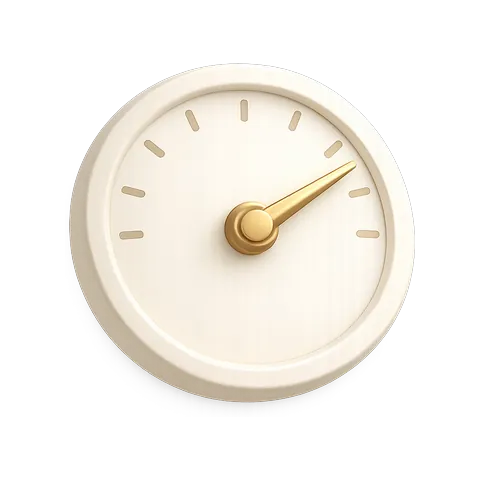
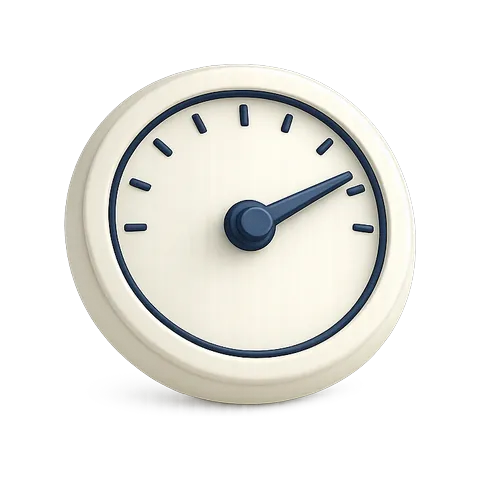
Swap in the navy services artwork and carry it to the services page
Replaces the six rendered objects with the navy-accented set and puts the same
artwork on services.html, which until now had the cards without it.

The .webp filenames did not change but their contents did, so every reference
moves to ?v=2. Without that, GitHub Pages keeps serving the gold versions from
cache and the swap never appears.

services.html needed its own proportions. It runs the same six cards with two
to three times the copy, so at the homepage's 61/53 split the text closed to
13px of the object against 29px on the home page. A smaller object pushed
further into the corner restores it to 44px, which is better than narrowing the
measure: these cards are already 392px tall and a narrower column would only
make them taller.

The superseded gold renders move to img/services/source/archive/ rather than
being deleted.

diff --git a/services.html b/services.html
@@ -28,7 +28,7 @@
 <link rel="preconnect" href="https://fonts.googleapis.com">
 <link rel="preconnect" href="https://fonts.gstatic.com" crossorigin>
 <link href="https://fonts.googleapis.com/css2?family=Playfair+Display:ital,wght@0,500;0,600;0,700;1,500;1,600&family=Plus+Jakarta+Sans:wght@400;500;600;700&family=Caveat:wght@600&family=IBM+Plex+Mono:wght@500;600&display=swap" rel="stylesheet">
-<link rel="stylesheet" href="studio.css?v=74"/>
+<link rel="stylesheet" href="studio.css?v=75"/>
 <script async src="https://www.googletagmanager.com/gtag/js?id=G-X2Q4TFJQM4"></script>
 <script>
   window.dataLayer=window.dataLayer||[];
@@ -120,36 +120,54 @@
         <h2>Six things, done properly.</h2>
         <p>Not a menu of add-ons. These are the pieces that make a small organization's site work.</p>
       </div>
-      <div class="svc-grid six detail">
+      <div class="svc-grid six detail illus">
         <a class="svc" href="websites.html">
-          <div class="ic"><svg viewBox="0 0 24 24" fill="none" stroke="currentColor" stroke-width="1.7" stroke-linecap="round" stroke-linejoin="round"><path d="M12 19l7-7 3 3-7 7-3-3z"/><path d="M18 13l-1.5-7.5L2 2l3.5 14.5L13 18l5-5z"/><path d="M2 2l7.586 7.586"/><circle cx="11" cy="11" r="2"/></svg></div>
+          <div class="svc-copy">
+            <div class="ic"><svg viewBox="0 0 24 24" fill="none" stroke="currentColor" stroke-width="1.7" stroke-linecap="round" stroke-linejoin="round"><path d="M12 19l7-7 3 3-7 7-3-3z"/><path d="M18 13l-1.5-7.5L2 2l3.5 14.5L13 18l5-5z"/><path d="M2 2l7.586 7.586"/><circle cx="11" cy="11" r="2"/></svg></div>
           <h3>Custom design</h3>
           <p>Every site starts with your work, not a template. I design around who you serve and what they need to find, so the layout, wording, and imagery all point the same direction.</p>
+          </div>
+          <img class="svc-art" src="img/services/custom-design.webp?v=2" alt="" width="480" height="480" loading="lazy" decoding="async"/>
         </a>
         <a class="svc" href="websites.html">
-          <div class="ic"><svg viewBox="0 0 24 24" fill="none" stroke="currentColor" stroke-width="1.7" stroke-linecap="round" stroke-linejoin="round"><path d="M12 3l1.9 5.6L19.5 10l-5.6 1.9L12 17.5l-1.9-5.6L4.5 10l5.6-1.4L12 3z"/><path d="M19 15l.8 2.2L22 18l-2.2.8L19 21l-.8-2.2L16 18l2.2-.8L19 15z"/></svg></div>
+          <div class="svc-copy">
+            <div class="ic"><svg viewBox="0 0 24 24" fill="none" stroke="currentColor" stroke-width="1.7" stroke-linecap="round" stroke-linejoin="round"><path d="M12 3l1.9 5.6L19.5 10l-5.6 1.9L12 17.5l-1.9-5.6L4.5 10l5.6-1.4L12 3z"/><path d="M19 15l.8 2.2L22 18l-2.2.8L19 21l-.8-2.2L16 18l2.2-.8L19 15z"/></svg></div>
           <h3>Redesigns &amp; refreshes</h3>
           <p>An aged site rarely needs starting from nothing. I rebuild what's there so it looks current and works properly on phones, keeping the pages and search history that already work.</p>
+          </div>
+          <img class="svc-art" src="img/services/redesign.webp?v=2" alt="" width="480" height="480" loading="lazy" decoding="async"/>
         </a>
         <a class="svc" href="websites.html">
-          <div class="ic"><svg viewBox="0 0 24 24" fill="none" stroke="currentColor" stroke-width="1.7" stroke-linecap="round" stroke-linejoin="round"><path d="M8 6l-5 6 5 6"/><path d="M16 6l5 6-5 6"/></svg></div>
+          <div class="svc-copy">
+            <div class="ic"><svg viewBox="0 0 24 24" fill="none" stroke="currentColor" stroke-width="1.7" stroke-linecap="round" stroke-linejoin="round"><path d="M8 6l-5 6 5 6"/><path d="M16 6l5 6-5 6"/></svg></div>
           <h3>Fast, modern build</h3>
           <p>Hand-built rather than assembled from heavy page builders, so pages stay fast and easy to maintain. Every page is checked on real phones, not just resized in a browser.</p>
+          </div>
+          <img class="svc-art" src="img/services/fast-build.webp?v=2" alt="" width="480" height="480" loading="lazy" decoding="async"/>
         </a>
         <a class="svc" href="hosting.html">
-          <div class="ic"><svg viewBox="0 0 24 24" fill="none" stroke="currentColor" stroke-width="1.7" stroke-linecap="round" stroke-linejoin="round"><rect x="3" y="4" width="18" height="7" rx="1.6"/><rect x="3" y="13" width="18" height="7" rx="1.6"/><path d="M7 7.5h.01M7 16.5h.01"/></svg></div>
+          <div class="svc-copy">
+            <div class="ic"><svg viewBox="0 0 24 24" fill="none" stroke="currentColor" stroke-width="1.7" stroke-linecap="round" stroke-linejoin="round"><rect x="3" y="4" width="18" height="7" rx="1.6"/><rect x="3" y="13" width="18" height="7" rx="1.6"/><path d="M7 7.5h.01M7 16.5h.01"/></svg></div>
           <h3>Hosting &amp; maintenance</h3>
           <p>I host the sites I build, so there's no finger-pointing when something needs attention. That covers the server, the certificate, backups, and monitoring. You never log into a control panel.</p>
+          </div>
+          <img class="svc-art" src="img/services/hosting.webp?v=2" alt="" width="480" height="480" loading="lazy" decoding="async"/>
         </a>
         <a class="svc" href="websites.html">
-          <div class="ic"><svg viewBox="0 0 24 24" fill="none" stroke="currentColor" stroke-width="1.7" stroke-linecap="round" stroke-linejoin="round"><circle cx="11" cy="11" r="7"/><path d="M20 20l-4.3-4.3"/></svg></div>
+          <div class="svc-copy">
+            <div class="ic"><svg viewBox="0 0 24 24" fill="none" stroke="currentColor" stroke-width="1.7" stroke-linecap="round" stroke-linejoin="round"><circle cx="11" cy="11" r="7"/><path d="M20 20l-4.3-4.3"/></svg></div>
           <h3>Get found locally</h3>
           <p>The local search basics, done properly at launch: clear titles and descriptions, structured data so search engines and AI assistants understand who you are, a sitemap, and fast load times.</p>
+          </div>
+          <img class="svc-art" src="img/services/local.webp?v=2" alt="" width="480" height="480" loading="lazy" decoding="async"/>
         </a>
         <a class="svc" href="plans.html">
-          <div class="ic"><svg viewBox="0 0 24 24" fill="none" stroke="currentColor" stroke-width="1.7" stroke-linecap="round" stroke-linejoin="round"><path d="M21 12a9 9 0 1 1-2.6-6.4"/><path d="M21 4v5h-5"/></svg></div>
+          <div class="svc-copy">
+            <div class="ic"><svg viewBox="0 0 24 24" fill="none" stroke="currentColor" stroke-width="1.7" stroke-linecap="round" stroke-linejoin="round"><path d="M21 12a9 9 0 1 1-2.6-6.4"/><path d="M21 4v5h-5"/></svg></div>
           <h3>Ongoing updates</h3>
           <p>New photos, seasonal hours, an event, a staff change, a whole new page. Email or text me the change and I handle it, usually within a few business days.</p>
+          </div>
+          <img class="svc-art" src="img/services/updates.webp?v=2" alt="" width="480" height="480" loading="lazy" decoding="async"/>
         </a>
       </div>
     </div>

diff --git a/index.html b/index.html
@@ -28,7 +28,7 @@
 <link rel="preconnect" href="https://fonts.googleapis.com">
 <link rel="preconnect" href="https://fonts.gstatic.com" crossorigin>
 <link href="https://fonts.googleapis.com/css2?family=Playfair+Display:ital,wght@0,500;0,600;0,700;1,500;1,600&family=Plus+Jakarta+Sans:wght@400;500;600;700&family=Caveat:wght@600&family=IBM+Plex+Mono:wght@500;600&display=swap" rel="stylesheet">
-<link rel="stylesheet" href="studio.css?v=74"/>
+<link rel="stylesheet" href="studio.css?v=75"/>
 <script type="application/ld+json">
 {
   "@context": "https://schema.org",
@@ -172,7 +172,7 @@
             <h3>Custom design</h3>
             <p>A clean, modern site designed around your business and the people you want to reach.</p>
           </div>
-          <img class="svc-art" src="img/services/custom-design.webp?v=1" alt="" width="480" height="480" loading="lazy" decoding="async"/>
+          <img class="svc-art" src="img/services/custom-design.webp?v=2" alt="" width="480" height="480" loading="lazy" decoding="async"/>
         </a>
         <a class="svc" href="websites.html">
           <div class="svc-copy">
@@ -180,7 +180,7 @@
             <h3>Redesigns &amp; refreshes</h3>
             <p>An outdated site rebuilt so it looks current and works properly on phones.</p>
           </div>
-          <img class="svc-art" src="img/services/redesign.webp?v=1" alt="" width="480" height="480" loading="lazy" decoding="async"/>
+          <img class="svc-art" src="img/services/redesign.webp?v=2" alt="" width="480" height="480" loading="lazy" decoding="async"/>
         </a>
         <a class="svc" href="websites.html">
           <div class="svc-copy">
@@ -188,7 +188,7 @@
             <h3>Fast, modern build</h3>
             <p>Built to load quickly and behave properly on the phones most visitors use.</p>
           </div>
-          <img class="svc-art" src="img/services/fast-build.webp?v=1" alt="" width="480" height="480" loading="lazy" decoding="async"/>
+          <img class="svc-art" src="img/services/fast-build.webp?v=2" alt="" width="480" height="480" loading="lazy" decoding="async"/>
         </a>
         <a class="svc" href="hosting.html">
           <div class="svc-copy">
@@ -196,7 +196,7 @@
             <h3>Hosting &amp; maintenance</h3>
             <p>Hosting, domains, certificates, and backups handled so you never touch a server.</p>
           </div>
-          <img class="svc-art" src="img/services/hosting.webp?v=1" alt="" width="480" height="480" loading="lazy" decoding="async"/>
+          <img class="svc-art" src="img/services/hosting.webp?v=2" alt="" width="480" height="480" loading="lazy" decoding="async"/>
         </a>
         <a class="svc" href="websites.html">
           <div class="svc-copy">
@@ -204,7 +204,7 @@
             <h3>Get found locally</h3>
             <p>Set up so Google and AI assistants can find you from day one.</p>
           </div>
-          <img class="svc-art" src="img/services/local.webp?v=1" alt="" width="480" height="480" loading="lazy" decoding="async"/>
+          <img class="svc-art" src="img/services/local.webp?v=2" alt="" width="480" height="480" loading="lazy" decoding="async"/>
         </a>
         <a class="svc" href="plans.html">
           <div class="svc-copy">
@@ -212,7 +212,7 @@
             <h3>Ongoing updates</h3>
             <p>New photos, hours, events, or pages whenever you need them.</p>
           </div>
-          <img class="svc-art" src="img/services/updates.webp?v=1" alt="" width="480" height="480" loading="lazy" decoding="async"/>
+          <img class="svc-art" src="img/services/updates.webp?v=2" alt="" width="480" height="480" loading="lazy" decoding="async"/>
         </a>
       </div>
 

diff --git a/studio.css b/studio.css
@@ -875,3 +875,20 @@ p,li,dd,figcaption,.crumb{text-wrap:pretty}
   .illus .svc-art{transition:none}
   .illus .svc:hover .svc-art{transform:none}
 }
+
+/* --------------------------------------------------------------------------
+   SERVICES PAGE ARTWORK (2026-08-08). services.html runs the same six cards
+   with two to three times the copy, so the homepage proportions do not carry:
+   at 61%/53% the text closed to 13px of the object, against 29px on the home
+   page. A smaller object pushed further into the corner restores the gap
+   without narrowing the measure, which would only make these cards taller.
+   -------------------------------------------------------------------------- */
+.detail.illus .svc-art{width:47%;right:-12%;bottom:-7%}
+@media(max-width:900px){
+  .detail.illus .svc-art{width:45%;right:-10%}
+}
+@media(max-width:620px){
+  /* one per row: the card narrows again and the copy is still long */
+  .detail.illus .svc-copy{width:58%}
+  .detail.illus .svc-art{width:44%;right:-8%;bottom:-5%}
+}

diff --git a/404.html b/404.html
@@ -28,7 +28,7 @@
 <link rel="preconnect" href="https://fonts.googleapis.com">
 <link rel="preconnect" href="https://fonts.gstatic.com" crossorigin>
 <link href="https://fonts.googleapis.com/css2?family=Playfair+Display:ital,wght@0,500;0,600;0,700;1,500;1,600&family=Plus+Jakarta+Sans:wght@400;500;600;700&family=Caveat:wght@600&family=IBM+Plex+Mono:wght@500;600&display=swap" rel="stylesheet">
-<link rel="stylesheet" href="/studio.css?v=74"/>
+<link rel="stylesheet" href="/studio.css?v=75"/>
 <script async src="https://www.googletagmanager.com/gtag/js?id=G-X2Q4TFJQM4"></script>
 <script>
   window.dataLayer=window.dataLayer||[];

diff --git a/about.html b/about.html
@@ -28,7 +28,7 @@
 <link rel="preconnect" href="https://fonts.googleapis.com">
 <link rel="preconnect" href="https://fonts.gstatic.com" crossorigin>
 <link href="https://fonts.googleapis.com/css2?family=Playfair+Display:ital,wght@0,500;0,600;0,700;1,500;1,600&family=Plus+Jakarta+Sans:wght@400;500;600;700&family=Caveat:wght@600&family=IBM+Plex+Mono:wght@500;600&display=swap" rel="stylesheet">
-<link rel="stylesheet" href="studio.css?v=74"/>
+<link rel="stylesheet" href="studio.css?v=75"/>
 <script async src="https://www.googletagmanager.com/gtag/js?id=G-X2Q4TFJQM4"></script>
 <script>
   window.dataLayer=window.dataLayer||[];

diff --git a/contact.html b/contact.html
@@ -28,7 +28,7 @@
 <link rel="preconnect" href="https://fonts.googleapis.com">
 <link rel="preconnect" href="https://fonts.gstatic.com" crossorigin>
 <link href="https://fonts.googleapis.com/css2?family=Playfair+Display:ital,wght@0,500;0,600;0,700;1,500;1,600&family=Plus+Jakarta+Sans:wght@400;500;600;700&family=Caveat:wght@600&family=IBM+Plex+Mono:wght@500;600&display=swap" rel="stylesheet">
-<link rel="stylesheet" href="studio.css?v=74"/>
+<link rel="stylesheet" href="studio.css?v=75"/>
 <script async src="https://www.googletagmanager.com/gtag/js?id=G-X2Q4TFJQM4"></script>
 <script>
   window.dataLayer=window.dataLayer||[];

diff --git a/domains.html b/domains.html
@@ -28,7 +28,7 @@
 <link rel="preconnect" href="https://fonts.googleapis.com">
 <link rel="preconnect" href="https://fonts.gstatic.com" crossorigin>
 <link href="https://fonts.googleapis.com/css2?family=Playfair+Display:ital,wght@0,500;0,600;0,700;1,500;1,600&family=Plus+Jakarta+Sans:wght@400;500;600;700&family=Caveat:wght@600&family=IBM+Plex+Mono:wght@500;600&display=swap" rel="stylesheet">
-<link rel="stylesheet" href="studio.css?v=74"/>
+<link rel="stylesheet" href="studio.css?v=75"/>
 <script async src="https://www.googletagmanager.com/gtag/js?id=G-X2Q4TFJQM4"></script>
 <script>
   window.dataLayer=window.dataLayer||[];

diff --git a/essential.html b/essential.html
@@ -28,7 +28,7 @@
 <link rel="preconnect" href="https://fonts.googleapis.com">
 <link rel="preconnect" href="https://fonts.gstatic.com" crossorigin>
 <link href="https://fonts.googleapis.com/css2?family=Playfair+Display:ital,wght@0,500;0,600;0,700;1,500;1,600&family=Plus+Jakarta+Sans:wght@400;500;600;700&family=Caveat:wght@600&family=IBM+Plex+Mono:wght@500;600&display=swap" rel="stylesheet">
-<link rel="stylesheet" href="studio.css?v=74"/>
+<link rel="stylesheet" href="studio.css?v=75"/>
 <script async src="https://www.googletagmanager.com/gtag/js?id=G-X2Q4TFJQM4"></script>
 <script>
   window.dataLayer=window.dataLayer||[];

diff --git a/hosting.html b/hosting.html
@@ -28,7 +28,7 @@
 <link rel="preconnect" href="https://fonts.googleapis.com">
 <link rel="preconnect" href="https://fonts.gstatic.com" crossorigin>
 <link href="https://fonts.googleapis.com/css2?family=Playfair+Display:ital,wght@0,500;0,600;0,700;1,500;1,600&family=Plus+Jakarta+Sans:wght@400;500;600;700&family=Caveat:wght@600&family=IBM+Plex+Mono:wght@500;600&display=swap" rel="stylesheet">
-<link rel="stylesheet" href="studio.css?v=74"/>
+<link rel="stylesheet" href="studio.css?v=75"/>
 <script async src="https://www.googletagmanager.com/gtag/js?id=G-X2Q4TFJQM4"></script>
 <script>
   window.dataLayer=window.dataLayer||[];

diff --git a/plans.html b/plans.html
@@ -28,7 +28,7 @@
 <link rel="preconnect" href="https://fonts.googleapis.com">
 <link rel="preconnect" href="https://fonts.gstatic.com" crossorigin>
 <link href="https://fonts.googleapis.com/css2?family=Playfair+Display:ital,wght@0,500;0,600;0,700;1,500;1,600&family=Plus+Jakarta+Sans:wght@400;500;600;700&family=Caveat:wght@600&family=IBM+Plex+Mono:wght@500;600&display=swap" rel="stylesheet">
-<link rel="stylesheet" href="studio.css?v=74"/>
+<link rel="stylesheet" href="studio.css?v=75"/>
 <script async src="https://www.googletagmanager.com/gtag/js?id=G-X2Q4TFJQM4"></script>
 <script>
   window.dataLayer=window.dataLayer||[];

diff --git a/premium.html b/premium.html
@@ -28,7 +28,7 @@
 <link rel="preconnect" href="https://fonts.googleapis.com">
 <link rel="preconnect" href="https://fonts.gstatic.com" crossorigin>
 <link href="https://fonts.googleapis.com/css2?family=Playfair+Display:ital,wght@0,500;0,600;0,700;1,500;1,600&family=Plus+Jakarta+Sans:wght@400;500;600;700&family=Caveat:wght@600&family=IBM+Plex+Mono:wght@500;600&display=swap" rel="stylesheet">
-<link rel="stylesheet" href="studio.css?v=74"/>
+<link rel="stylesheet" href="studio.css?v=75"/>
 <script async src="https://www.googletagmanager.com/gtag/js?id=G-X2Q4TFJQM4"></script>
 <script>
   window.dataLayer=window.dataLayer||[];

diff --git a/privacy.html b/privacy.html
@@ -28,7 +28,7 @@
 <link rel="preconnect" href="https://fonts.googleapis.com">
 <link rel="preconnect" href="https://fonts.gstatic.com" crossorigin>
 <link href="https://fonts.googleapis.com/css2?family=Playfair+Display:ital,wght@0,500;0,600;0,700;1,500;1,600&family=Plus+Jakarta+Sans:wght@400;500;600;700&family=Caveat:wght@600&family=IBM+Plex+Mono:wght@500;600&display=swap" rel="stylesheet">
-<link rel="stylesheet" href="studio.css?v=74"/>
+<link rel="stylesheet" href="studio.css?v=75"/>
 <script async src="https://www.googletagmanager.com/gtag/js?id=G-X2Q4TFJQM4"></script>
 <script>
   window.dataLayer=window.dataLayer||[];
